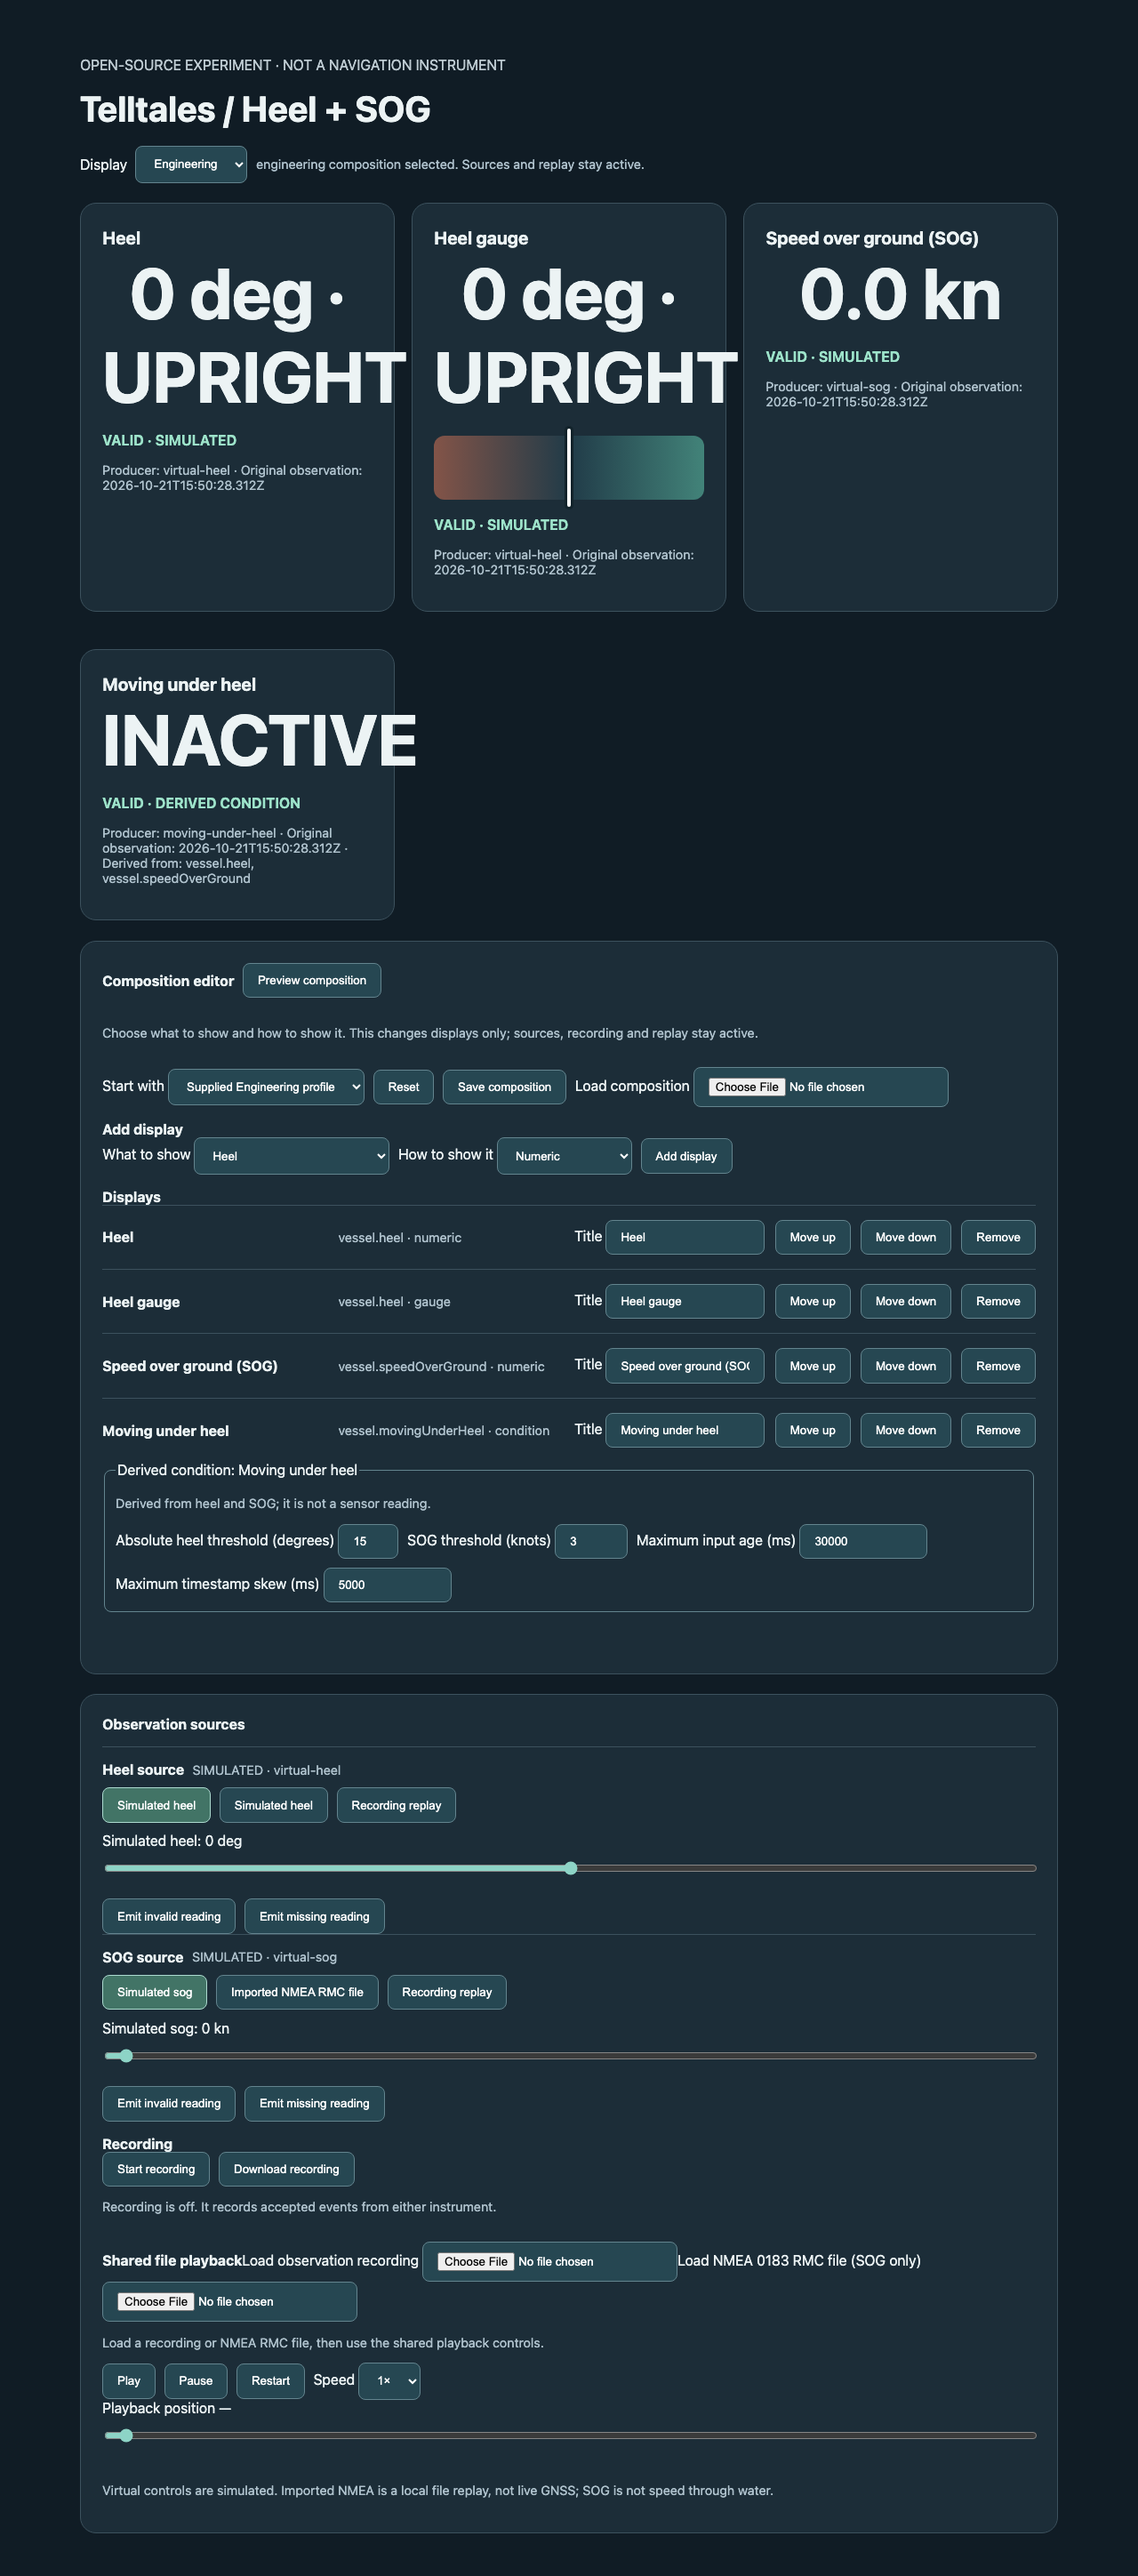
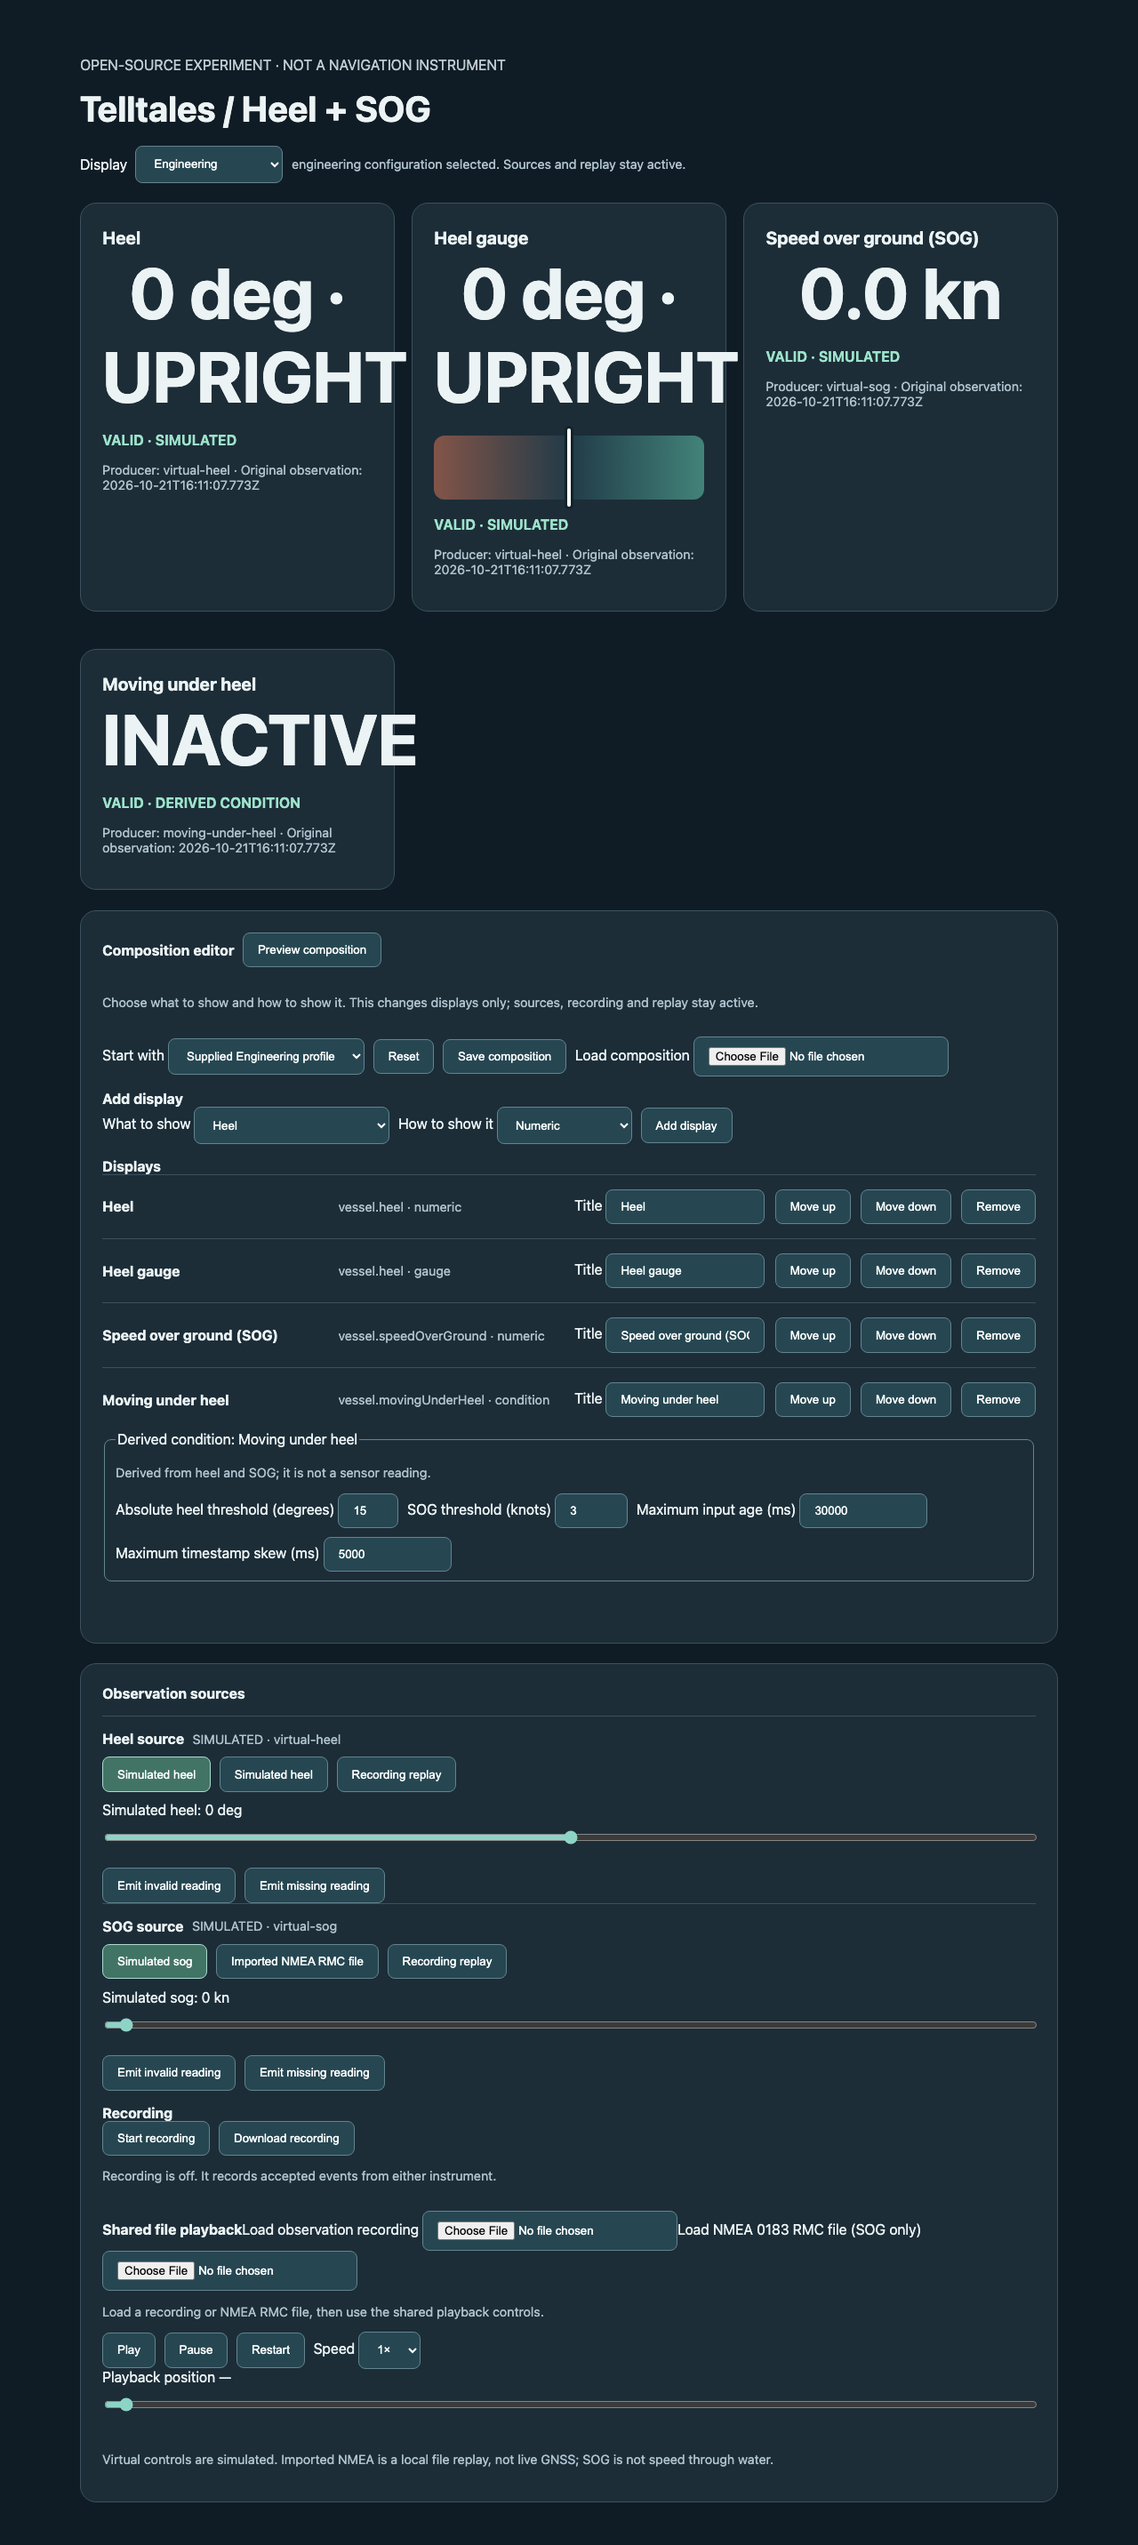
Add reusable configurable speed widget

diff --git a/src/profile.css b/src/profile.css
@@ -1,6 +1,7 @@
 /* Fixed presentation treatments for the three supported display profiles. */
 [hidden]{display:none!important}
 .history{width:100%;height:120px;background:#132630;border-radius:10px}.history path{fill:none;stroke:#8dd4c6;stroke-width:1.5}
+.speed-widget{position:relative;min-height:260px;overflow:hidden}.speed-widget .speed-history{width:100%;height:190px;background:transparent;border-radius:10px}.speed-widget .speed-history path{stroke:#8dd4c6;stroke-width:2}.speed-widget.mode-combined .speed-history{position:absolute;inset:2.8rem 1.25rem 3.4rem;width:calc(100% - 2.5rem);height:calc(100% - 6.2rem);z-index:0}.speed-number{font-size:clamp(4rem,13vw,9rem);font-weight:800;font-variant-numeric:tabular-nums;line-height:1;position:relative;z-index:1;text-align:center;text-shadow:0 2px 4px #101c25,0 0 12px #101c25}.speed-number small{font-size:.28em;font-weight:650}.speed-widget.mode-combined .speed-number{min-height:150px;display:grid;place-content:center;pointer-events:none}.speed-number.position-top-left{text-align:left}.speed-number.position-top-right{text-align:right}.speed-number.position-bottom-left{text-align:left;align-items:end}.speed-number.position-bottom-right{text-align:right;align-items:end}.speed-widget .status,.speed-widget .meta{position:relative;z-index:2}
 @media (min-width:701px){
   body[data-profile=wide]{padding:1rem 2rem!important}
   body[data-profile=wide] main{max-width:1540px!important;min-height:0!important;display:block!important}

diff --git a/README.md b/README.md
@@ -48,3 +48,20 @@ The derived **Moving under heel** condition is explicitly marked derived and con
 Use **Save composition** to download a portable, versioned `telltales.composition` JSON file; use **Load composition** to validate and apply one later. A composition contains observation identities, supported presentation types, titles, order and the supported derived thresholds only—it never contains sources, DOM identifiers or executable code. [examples/synthetic-composition.json](examples/synthetic-composition.json) showcases heel numeric, SOG trend, SOG gauge and the derived condition. **Reset** restores the supplied Engineering composition and thresholds; supplied profiles in `config.json` are never overwritten.
 
 Changing a composition does not reset active sources, raw history, recording state, loaded replay, replay position, or playback speed. Recordings retain raw observations only, so v1 and v2 JSON recordings and NMEA replay remain compatible and always recompute derived state deterministically.
+
+## AI-ready speed widgets
+
+The supported public widget catalogue is [WIDGETS.md](WIDGETS.md). A `speed` widget binds `inputs.speed` to a raw `kn` observation and has typed, offline-validated props: `mode` (`number`, `history`, or `combined`), `historySeconds` (1–86400), display-only `scale.min`/`max`, `historyOpacity` (0–1), optional `title`, `showUnits`, and `numericPosition`.
+
+`number` presents current SOG; `history` presents only timestamped samples in its declared window and leaves gaps after invalid readings; `combined` layers the number over the live SVG line without a filled number backing. Its text shadow supports legibility while retaining the graph. Each widget owns its scale/window, so two bindings to the same SOG can show different views safely.
+
+Select **Speed-focus** for the combined SOG widget plus heel number. Select **Instruments-trends** for separate SOG number/trend widgets, heel gauge, and Moving under heel. These are declarative profiles in `config.json`; the small files in `examples/` identify the corresponding template. Both work with virtual controls, the public RMC fixture, and JSON recordings.
+
+Validate configuration offline before opening the app:
+
+```sh
+npm run validate:config
+npm run validate:config -- path/to/config.json
+```
+
+An agent workflow is: read the catalogue and templates; map the request to observation bindings and props; edit configuration; validate it; run `npm test` and `npm run test:browser`; preview in Chromium; then return the exact configuration change and unsupported requests. For example, “show SOG over two minutes behind a large value” maps to `mode:"combined", historySeconds:120`; “show a six-minute trend beside the current SOG” maps to two independent `speed` instances with `history` and `number` modes. Configuration intentionally cannot inject CSS or executable code.

diff --git a/WIDGETS.md b/WIDGETS.md
@@ -1,0 +1,13 @@
+# Widget catalogue
+
+## `speed`
+
+Reusable Speed Over Ground presentation. `inputs.speed` is required and must bind a raw observation with unit `kn`. Invalid, missing, and stale readings show `—`/UNAVAILABLE. A replay preserves its original provenance; imported RMC is labelled NMEA FILE and virtual inputs are labelled simulated.
+
+`props.mode` is `number`, `history`, or `combined`. `historySeconds` is 1–86400 (required), `scale` requires finite `min < max` and is presentation-only, and `historyOpacity` is 0–1. `title` is an optional non-empty string, `showUnits` is optional boolean, and `numericPosition` is `center`, `top-left`, `top-right`, `bottom-left`, or `bottom-right`.
+
+```json
+{"id":"primary-speed","widget":"speed","inputs":{"speed":"vessel.speedOverGround"},"props":{"mode":"combined","title":"Speed over ground","historySeconds":120,"showUnits":true,"scale":{"min":0,"max":12},"historyOpacity":0.65,"numericPosition":"center"}}
+```
+
+`number` displays the current valid SOG. `history` plots only samples in its declared timestamp window, breaking at unavailable samples. `combined` puts that same transparent history behind the value; the number has a text shadow, never an opaque backing rectangle. Widget scale does not alter sensor validation.
